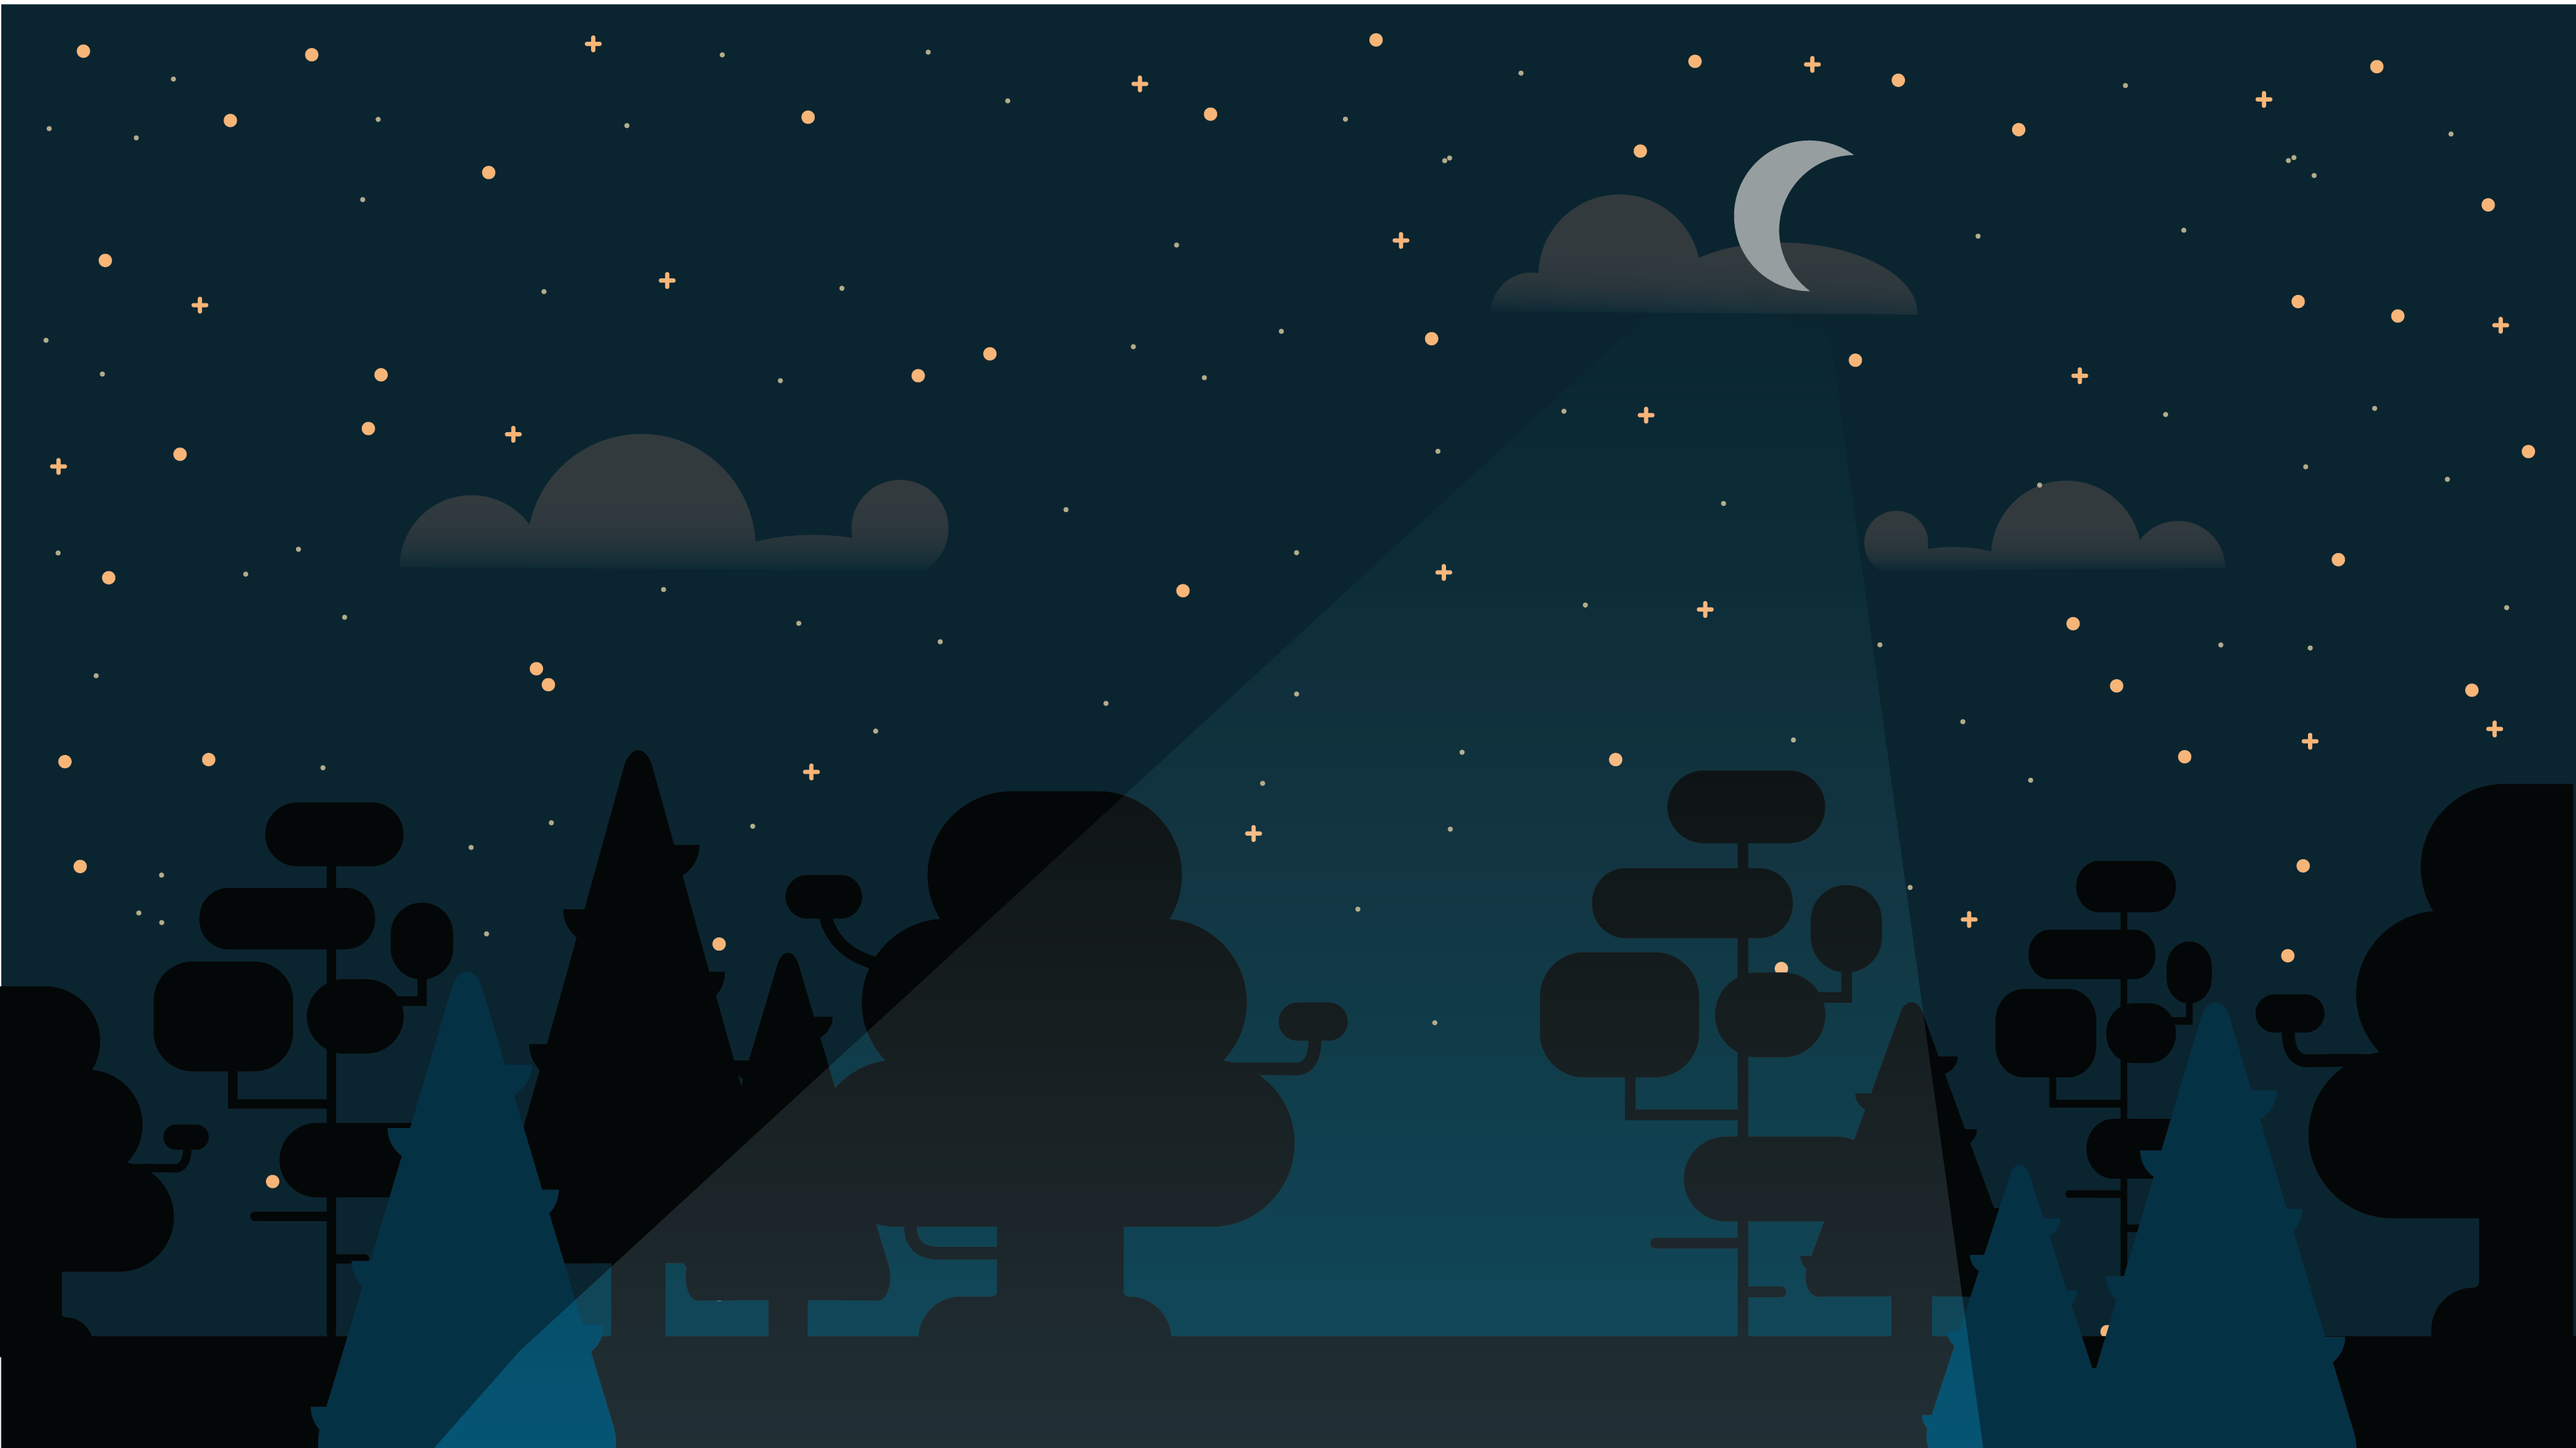
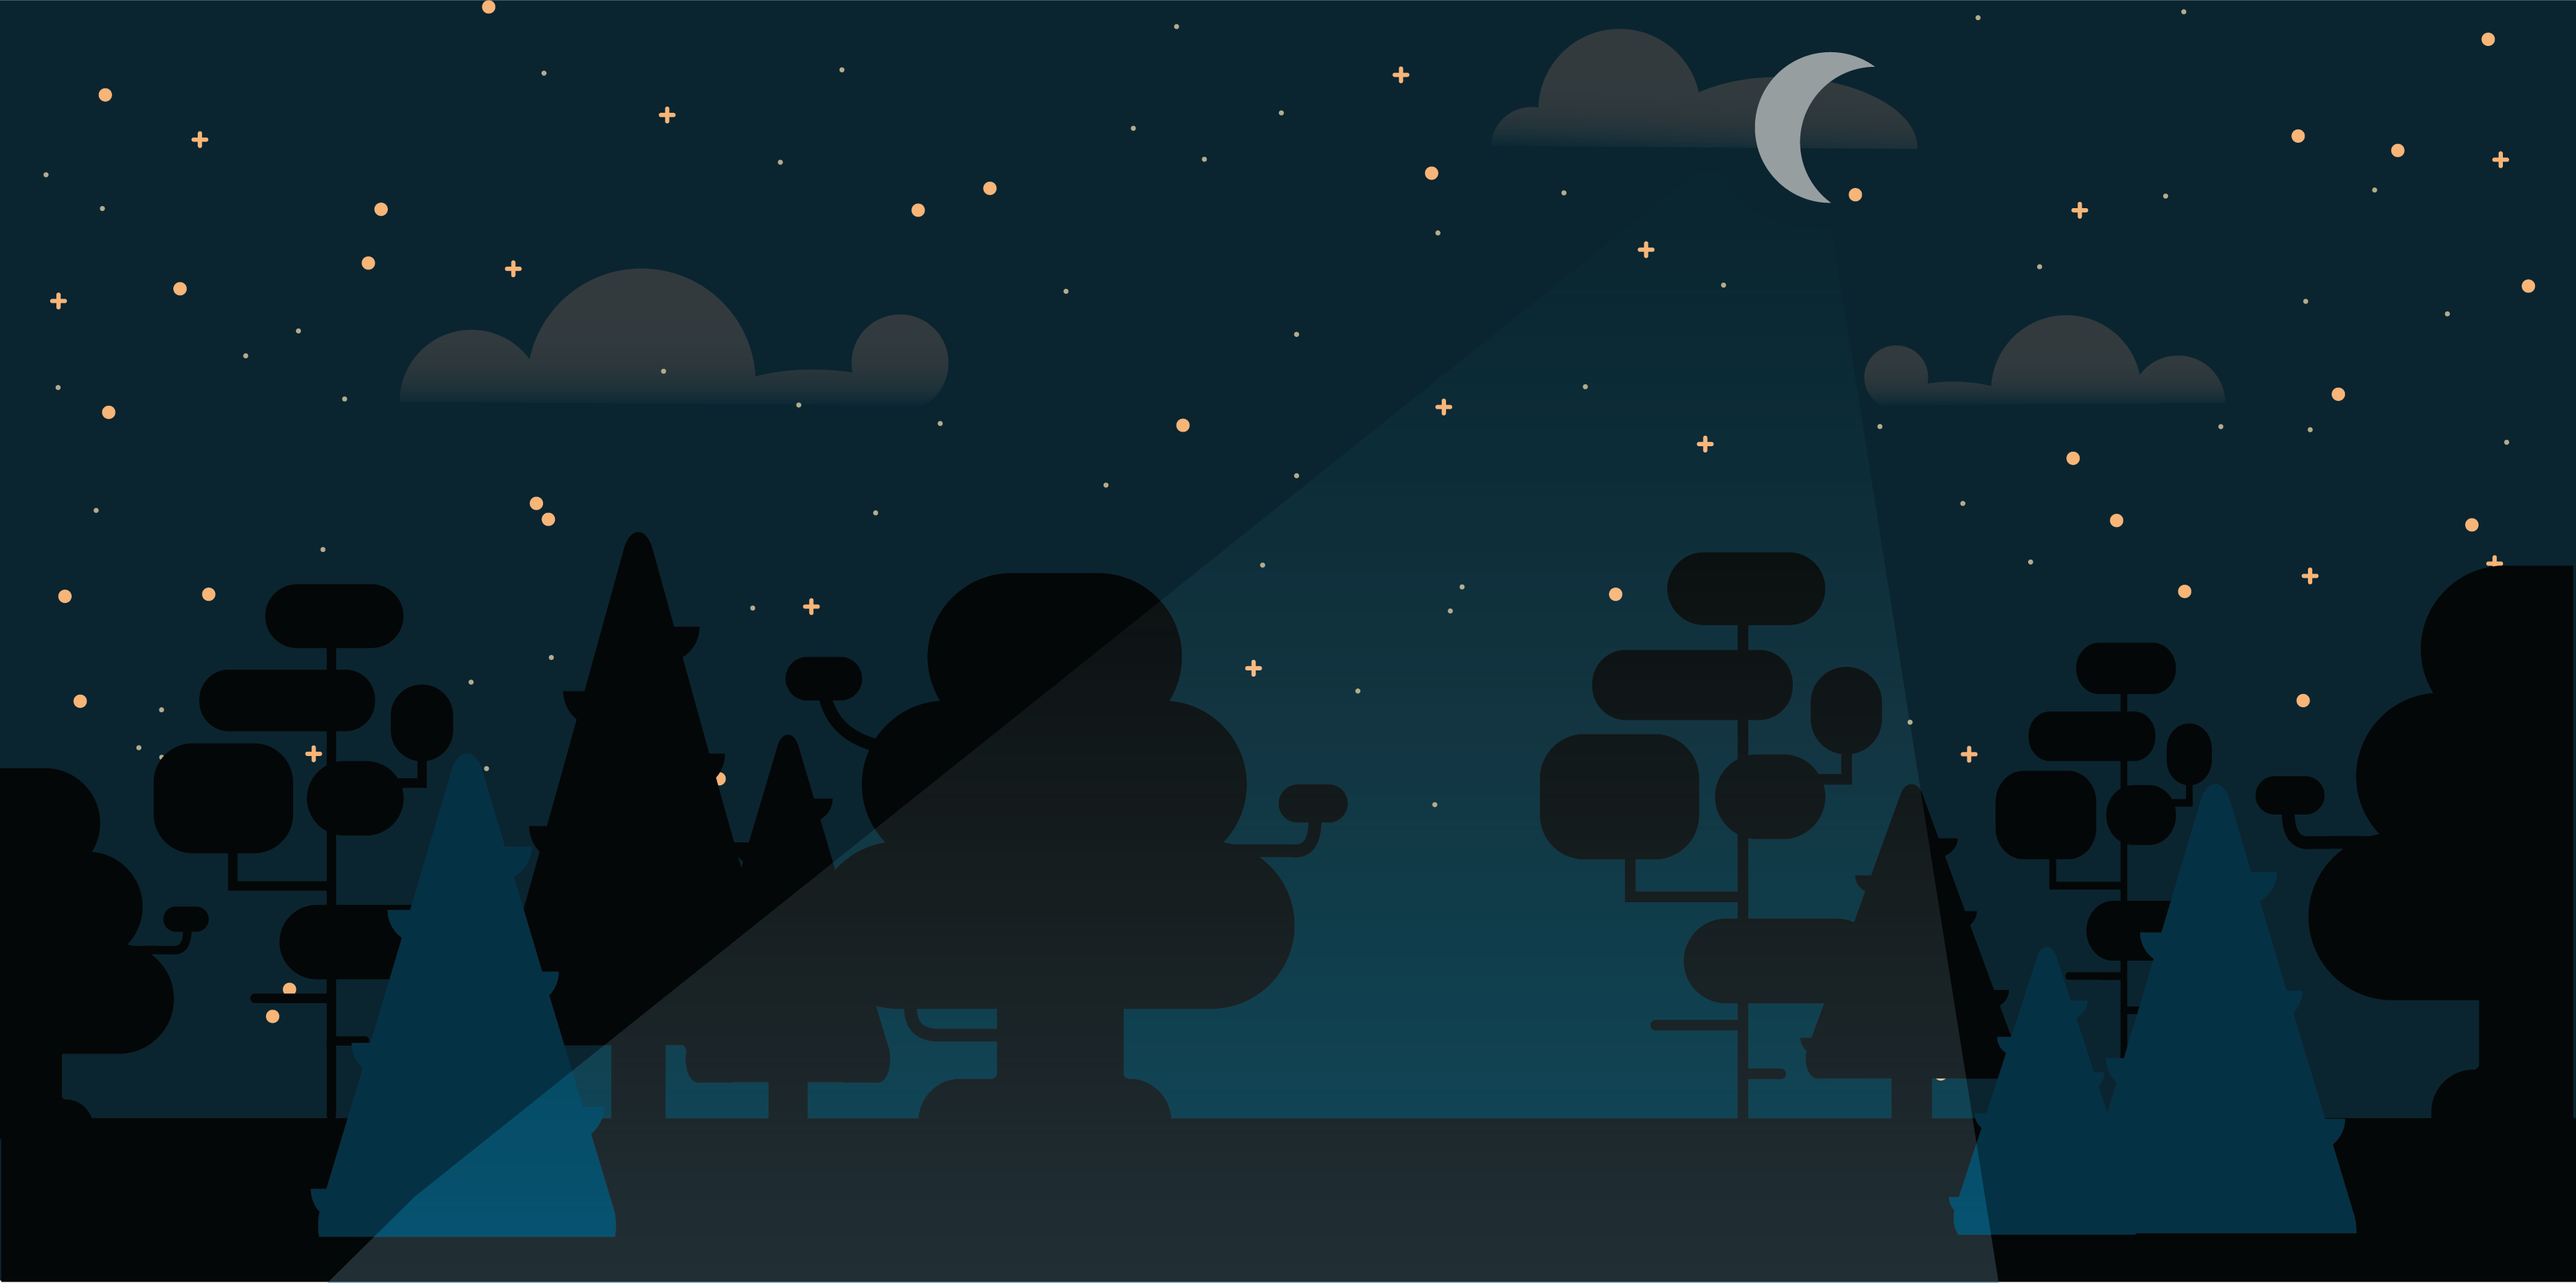
background image adjustments

diff --git a/style/style.css b/style/style.css
@@ -42,7 +42,7 @@ body {
 
 .background {
    width: 100%;
-   height: 50rem;
+   height: 40rem;
    object-fit: cover;
    z-index: -1;
 }
@@ -58,7 +58,7 @@ body {
 
 .tm {
    position: absolute;
-   top: 13rem;
+   top: 3rem;
    left: 33%;
    width: 37rem;
 }
@@ -120,7 +120,7 @@ button {
    font-size: var(--font-size-bold);
    text-align: center;
    position: absolute;
-   top: 15rem;
+   top: 5.5rem;
    left: 41%;
 }
 
